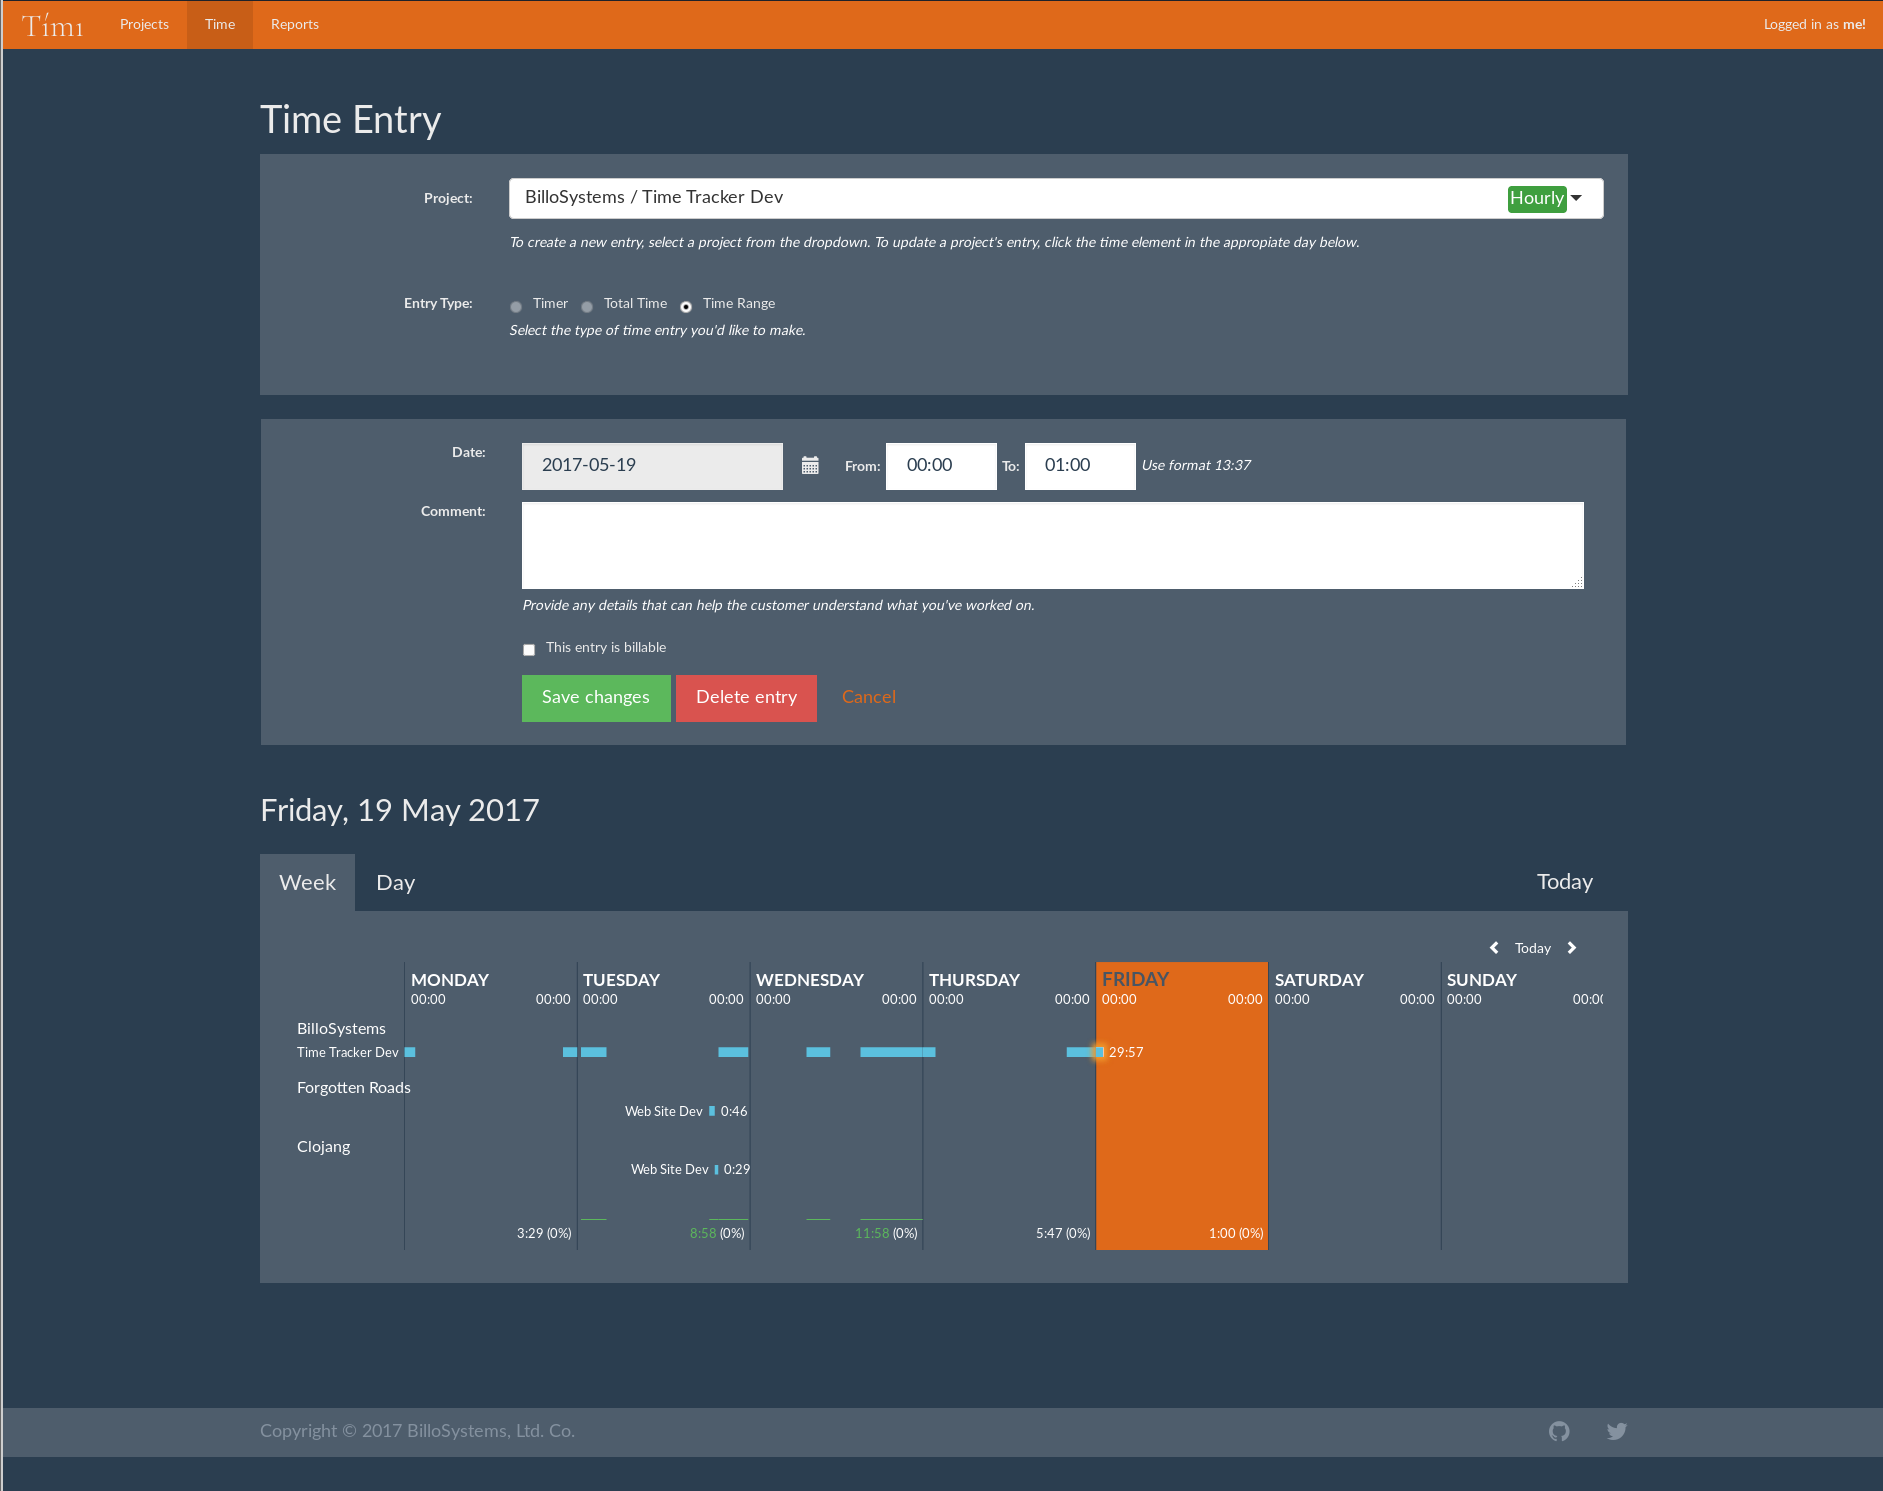
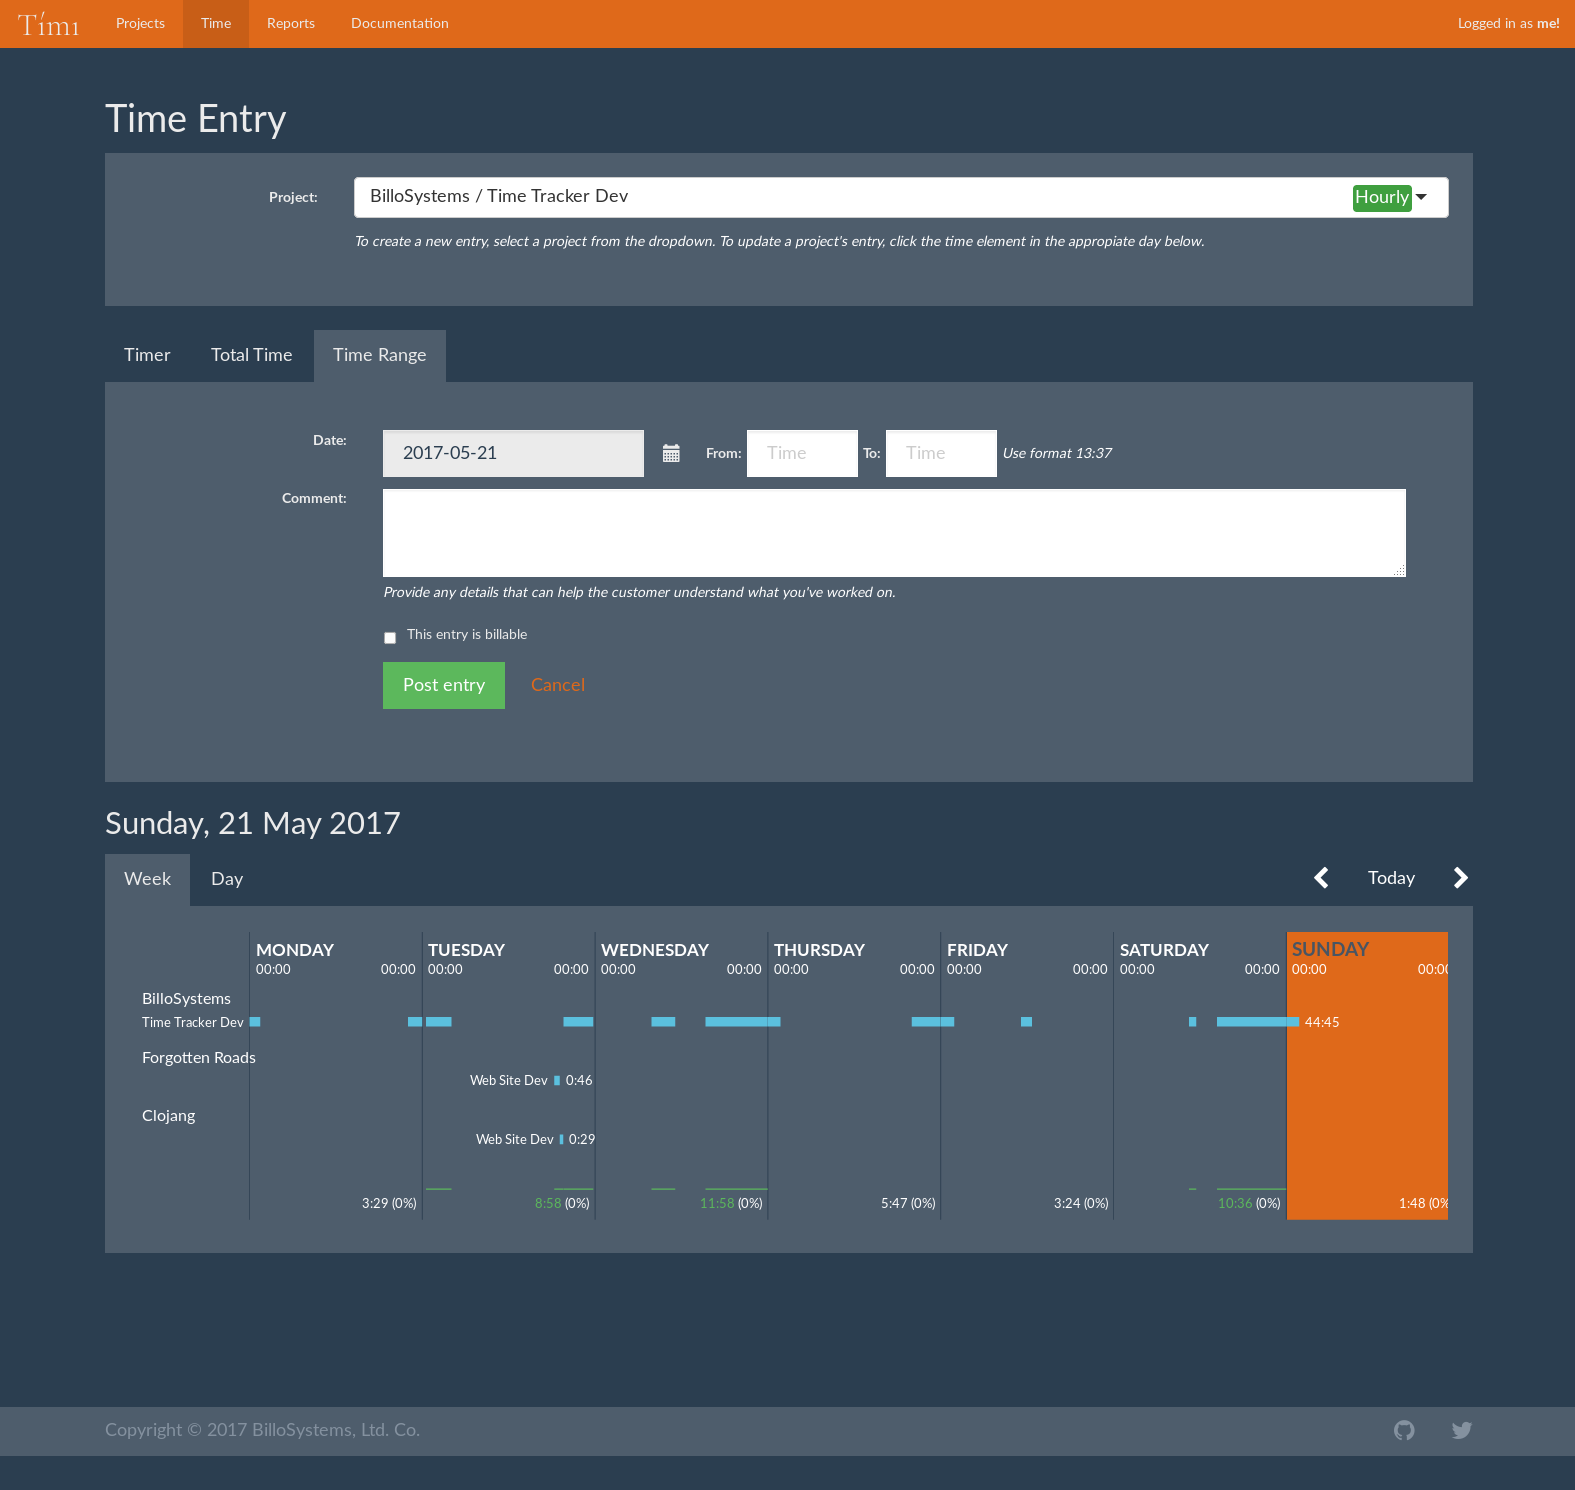
Changed the time entry type options to tabbed panes.

diff --git a/resources/templates/time.html b/resources/templates/time.html
@@ -19,15 +19,42 @@
 </div>
 
 <input type="hidden" id="view-data" value="{{view-data}}" />
-<div class="row row-entry-form" id="entry-form-react-container">
-  <div class="col-md-8 col-md-offset-2">
+
+<div>
+  <!-- Nav tabs for time entry types -->
+  <ul class="nav nav-tabs" role="tablist">
+    <li role="presentation">
+        <a href="#timer" aria-controls="timer" role="tab" data-toggle="tab">Timer</a>
+    </li>
+    <li role="presentation">
+        <a href="#total" aria-controls="total" role="tab" data-toggle="tab">Total Time</a>
+    </li>
+    <li role="presentation" class="active">
+        <a href="#range" aria-controls="range" role="tab" data-toggle="tab">Time Range</a>
+    </li>
+  </ul>
+
+  <!-- Tabbed panes for time entry types -->
+  <div class="tab-content">
+   <!-- Timer view content -->
+    <div role="tabpanel" class="tab-pane well" id="timer">
+    </div>
+    <!-- Total Time view content -->
+    <div role="tabpanel" class="tab-pane well" id="total">
+    </div>
+    <!-- Time Range view content -->
+    <div role="tabpanel" class="tab-pane active well" id="range">
+      <div class="row row-entry-form" id="entry-form-react-container">
+        <div class="col-md-8 col-md-offset-2"></div>
+      </div>
+    </div>
   </div>
 </div>
 
-<h3 id="entries-for-day-date">{{entries-for-day.formatted-date}}<h3>
+<h3 id="entries-for-day-date">{{entries-for-day.formatted-date}}</h3>
 
 <div>
-  <!-- Nav tabs -->
+  <!-- Nav tab week pager -->
   <ul id="date-navigator-container" class="nav nav-tabs navbar-right" role="tablist">
     <li role="presentation">
         <a href="#date-nav" aria-controls="day" role="tab">
@@ -35,6 +62,7 @@
         </a>
     </li>
   </ul>
+  <!-- Nav tabs for time-worked views -->
   <ul class="nav nav-tabs" role="tablist">
     <li role="presentation" class="active">
         <a href="#week" aria-controls="week" role="tab" data-toggle="tab">Week</a>
@@ -44,7 +72,7 @@
     </li>
   </ul>
 
-  <!-- Tab panes -->
+  <!-- Tabbed panes for time-worked views -->
   <div class="tab-content">
    <!-- Week view content -->
     <div role="tabpanel" class="tab-pane active well" id="week">

diff --git a/resources/public/css/timi.css b/resources/public/css/timi.css
@@ -14,7 +14,7 @@ main {
 }
 
 .nav-tabs > li {
-  font-size: 70%;
+  font-size: 100%;
 }
 
 .nav-tabs > li.active > a,
@@ -236,7 +236,7 @@ main {
 #entry-form-container {
   max-height: 0px;
   overflow: hidden;
-  transition: max-height 0.4s ease 0s;
+  transition: max-height 0s ease 0s;
 }
 
 #entry-form-container.entry-form-visible {
